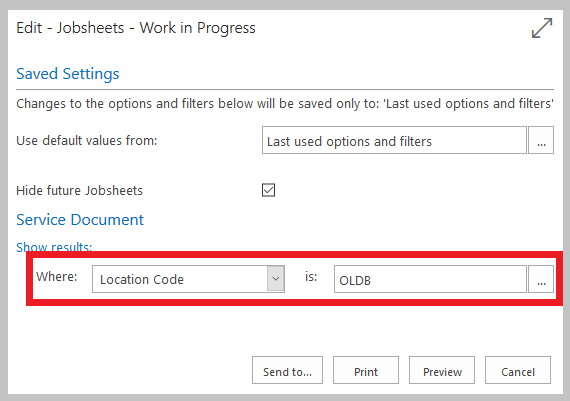
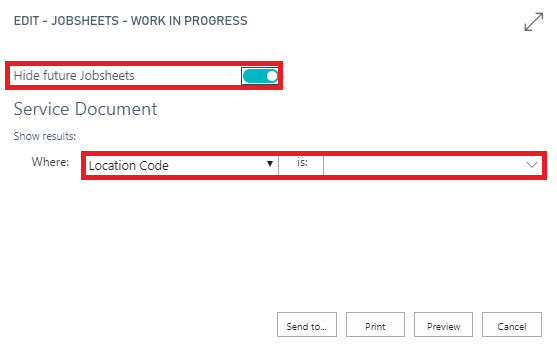
WIP updated to BC

Changed region(s): [[0.0, 0.0, 1.0, 1.0]]

diff --git a/docs/garagehive-work-in-progress.md b/docs/garagehive-work-in-progress.md
@@ -9,14 +9,18 @@ title: Work In Progress Report
 
 ![](media/garagehive-end-of-day1.png)
 
-*   Then select Jobsheets – Work in Progress. 
+*   Then select End of Day followed by Jobsheets – Work in Progress. 
 
 ![](media/garagehive-end-of-day4.png)
+
+*   Ensure the Hide future jobsheets slider is selected. 
 
 *   Ensure Location Code is completed and press print.
 
 ![](media/garagehive-end-of-day5.png)
 
 ***This has produced your WIP report. Use this report to keep your system cleansed. Ensure all jobs on this report are live jobs, if not close/invoice any no shows/ account customer invoices.***
+
+***It also allows you to see how much value you have in the WIP you have yet to be invoiced*** 
 
 ![](media/garagehive-work-in-progress1.png)
